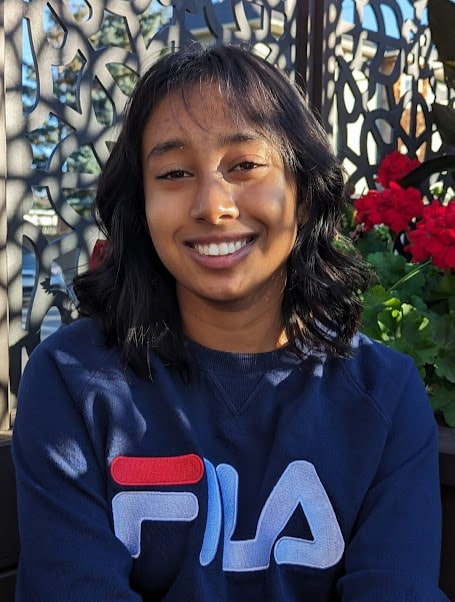
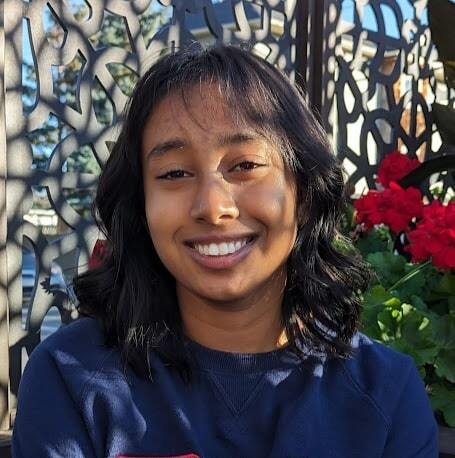
added flip functionality to team member cards

diff --git a/src/styles/FlipCard.css b/src/styles/FlipCard.css
@@ -1,0 +1,62 @@
+.hexagon-container {
+    width: 17em;
+    height: 15em;
+    display: flex;
+    justify-content: center;
+    align-items: center;
+    transform-style: preserve-3d;
+    transition: transform 0.6s;
+}
+
+.hexagon-container.flipped {
+    transform: rotateY(180deg);
+}
+
+.hexagon-border {
+    position: relative;
+    width: 100%;
+    height: 100%;
+    overflow: hidden;
+    clip-path: polygon(25% 0%, 75% 0%, 100% 50%, 75% 100%, 25% 100%, 0% 50%);
+    background-color: var(--cssc-lavender);
+    transition: 0.15s;
+}
+
+.hexagon-border:hover {
+    background-color: var(--cssc-purple);
+}
+  
+.hexagon-image {
+    position: absolute;
+    top: 1.3%;
+    left: 1.3%;
+    width: 97.4%;
+    height: 97.4%;
+    clip-path: polygon(25% 0%, 75% 0%, 100% 50%, 75% 100%, 25% 100%, 0% 50%);
+    object-fit: cover;
+    align-items: center;
+    justify-content: center;
+}
+  
+.member-image {
+    width: 100%;
+    height: 100%;
+    z-index: 1;
+}
+
+.back {
+    transform: rotateY(180deg);
+    position: absolute;
+    top: 0;
+    left: 0;
+    width: 100%;
+    height: 100%;
+    background: var(--cssc-lavender);
+    backface-visibility: visible;
+    z-index: -1;
+    -webkit-transition: 0.2s ease;
+}
+
+.back.flipped {
+    z-index: 500;
+}

diff --git a/src/components/TeamGrid.tsx b/src/components/TeamGrid.tsx
@@ -1,24 +1,29 @@
 import "../styles/TeamGrid.css";
+import FlipCard from "./FlipCard";
 
 interface Props {
   nameArray: string[];
-  // imageArray: string[];
+  imageArray: string[];
 }
 
-const TeamGrid = ({ nameArray }: Props) => {
+const TeamGrid = ({ nameArray, imageArray }: Props) => {
   return (
     <>
       <div className="team-grid">
         {nameArray.map((name, index) => (
           <div className={`team-member ${(index - 1) % 3 == 0 ? "hex" : ""}`}>
-            <div className="hexagon-container">
-              <div className="hexagon">{nameArray[index]}</div>
-            </div>
+            <FlipCard
+              nameArray={nameArray}
+              imageArray={imageArray}
+              index={index}
+            />
           </div>
         ))}
       </div>
     </>
   );
 };
+
+//{nameArray[index]}
 
 export default TeamGrid;

diff --git a/src/components/FlipCard.tsx b/src/components/FlipCard.tsx
@@ -1,0 +1,31 @@
+import "../styles/FlipCard.css";
+import { useState } from "react";
+
+interface Props {
+  nameArray: string[];
+  imageArray: string[];
+  index: number;
+}
+
+const FlipCard = ({ nameArray, imageArray, index }: Props) => {
+  const [isFlipped, setIsFlipped] = useState(false);
+  const handleFlip = () => {
+    setIsFlipped(!isFlipped);
+    console.log("true");
+  };
+
+  return (
+    <>
+      <div className={`hexagon-container ${isFlipped ? "flipped" : ""}`}>
+        <div className="hexagon-border">
+          <div className="hexagon-image" onClick={handleFlip}>
+            <img src={imageArray[index]} className="member-image" />
+            <div className={`back ${isFlipped ? "flipped" : ""}`}>hi</div>
+          </div>
+        </div>
+      </div>
+    </>
+  );
+};
+
+export default FlipCard;

diff --git a/src/styles/TeamGrid.css b/src/styles/TeamGrid.css
@@ -17,40 +17,3 @@
     padding-top: 17em;
 }
   
-.hexagon-container {
-    width: 280px;
-    height: 0em;
-    display: flex;
-    justify-content: center;
-    align-items: center;
-  }
-  
-.hexagon {
-    position: relative;
-    width: 100%;
-    padding-bottom: 115%;
-    overflow: hidden;
-  }
-  
-.hexagon:before {
-    content: ' ';
-    position: absolute;
-    top: 0;
-    left: 0;
-    width: 100%;
-    height: 70%;
-    background-color: var(--cssc-lavender);
-    clip-path: polygon(25% 0%, 75% 0%, 100% 50%, 75% 100%, 25% 100%, 0% 50%);
-  }
-  
-.hexagon-image {
-    position: absolute;
-    top: 5%;
-    left: 5%;
-    width: 90%;
-    height: 90%;
-    object-fit: cover;
-    z-index: 1;
-  }
-  
-  

diff --git a/src/pages/Team.tsx b/src/pages/Team.tsx
@@ -2,10 +2,18 @@ import TeamGrid from "../components/TeamGrid";
 
 const Team = () => {
   let nameArray = ["1", "2", "3", "4", "5", "6"];
+  let imageArray = [
+    "/images/ahyan.png",
+    "/images/joshua.png",
+    "/images/cheri.jpg",
+    "/images/misha.jpg",
+    "/images/haotian.jpg",
+    "/images/janice.jpg",
+  ];
   return (
     <div className="box team">
       <div className="container team">
-        <TeamGrid nameArray={nameArray} />
+        <TeamGrid nameArray={nameArray} imageArray={imageArray} />
       </div>
     </div>
   );

diff --git a/src/components/Page.tsx b/src/components/Page.tsx
@@ -19,7 +19,6 @@ const Page = ({ index, id, content, inSection }: Props) => {
 
   return (
     <>
-      {console.log(isVisible, inSection)}
       <section id={id} className={`page ${isVisible ? "" : "invisible"}`}>
         {content}
       </section>
